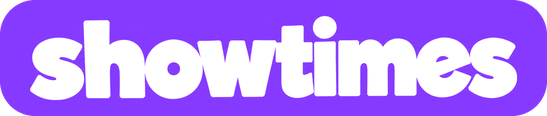
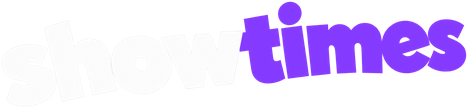
New page header art, at one letter size across the site
Jordan's new two-tone headers: what's on (Films), showtimes, picture houses
(Theatres), dashboard (Your cineclock) and festivals+series. Each is cut
from its transparent PNG, its purple set to the wordmark's #8639FF, and
scaled by letter count so the letters are the same size on every page. They
ship at 2x and show at half width, 80% of that on phones, capped to the
screen. Alt text matches the words shown.

Claude-Session: https://claude.ai/code/session_013YuyzHba7WUNZFmHygSECG

diff --git a/src/cineclock/static/site.css b/src/cineclock/static/site.css
@@ -2353,7 +2353,6 @@ a.venue-name:hover { text-decoration: underline; text-underline-offset: 3px; }
 .series-eyebrow .icon { color: var(--white); }
 .series-pill { display: inline-block; margin: 0 0 0.75rem; line-height: 0; }
 .series-eyebrow { text-decoration: none; }
-.series-pill img { width: auto; height: 2rem; }
 .has-backdrop .series-page { position: relative; margin-top: -5rem; }
 .series-blurb { max-width: 42rem; margin: 0.75rem 0 0; color: var(--bright); font-family: var(--serif); font-size: 1.0625rem; line-height: 1.55; }
 .series-source { margin: 0.75rem 0 1.25rem; font-size: 0.875rem; }
@@ -2394,8 +2393,13 @@ a.venue-name:hover { text-decoration: underline; text-underline-offset: 3px; }
 
 /* Page headers drawn as purple pills: one height everywhere. */
 .page-title-art { line-height: 0; }
-.page-title-art img { width: auto; height: 2.25rem; }
-@media (min-width: 40rem) { .page-title-art img { height: 2.75rem; } }
+.page-title-art img,
+.series-pill img { width: calc(var(--w) * 0.8); max-width: 100%; height: auto; }
+.series-pill img { width: calc(var(--w) * 0.55); }
+@media (min-width: 40rem) {
+  .page-title-art img { width: var(--w); }
+  .series-pill img { width: calc(var(--w) * 0.65); }
+}
 
 /* Home hub: three tiles under the hero. A column on phones, a row on wider screens. */
 .hub { display: grid; gap: 0.5rem; margin-top: 0.75rem; }

diff --git a/src/cineclock/templates/_parts.html b/src/cineclock/templates/_parts.html
@@ -317,6 +317,8 @@
 {% macro page_header(name, alt, root) -%}
 {%- set size = image_size("brand/header-" ~ name ~ ".png") if has_asset("brand/header-" ~ name ~ ".png") else None -%}
 {%- if size -%}
-<img src="{{ root }}static/brand/header-{{ name }}.png?v={{ asset_version('brand/header-' ~ name ~ '.png') }}" alt="{{ alt }}" width="{{ size[0] | int }}" height="{{ size[1] | int }}">
+{# Drawn at 2x, with the letters the same size in every one, so each shows at
+   half its pixel width; --w lets phones scale them all down together. #}
+<img src="{{ root }}static/brand/header-{{ name }}.png?v={{ asset_version('brand/header-' ~ name ~ '.png') }}" alt="{{ alt }}" width="{{ (size[0] / 2) | int }}" height="{{ (size[1] / 2) | int }}" style="--w: {{ (size[0] / 2) | int }}px">
 {%- else %}{{ alt }}{% endif -%}
 {%- endmacro %}

diff --git a/src/cineclock/templates/me.html b/src/cineclock/templates/me.html
@@ -7,7 +7,7 @@
 {% block main %}
 <div class="wrap me-page">
   <div class="dash-head">
-    <h1 class="page-title page-title-art">{{ page_header("dash", "Your cineclock", root) }}</h1>
+    <h1 class="page-title page-title-art">{{ page_header("dash", "Dashboard", root) }}</h1>
     <div class="dash-who" id="me-signed-in" hidden>
       <span class="account-initial" id="me-initial" aria-hidden="true"></span>
       <span class="dash-email" id="me-email"></span>

diff --git a/src/cineclock/templates/theatres.html b/src/cineclock/templates/theatres.html
@@ -5,7 +5,7 @@
 
 {% block main %}
 <div class="wrap">
-  <h1 class="page-title page-title-art">{{ page_header("theatres", "Theatres", root) }}</h1>
+  <h1 class="page-title page-title-art">{{ page_header("theatres", "Picture houses", root) }}</h1>
   <ul class="theatre-cards">
     {% for v in venues %}
     {% set photo = "theatres/" ~ v.slug ~ ".jpg" %}

diff --git a/src/cineclock/templates/festivals.html b/src/cineclock/templates/festivals.html
@@ -6,7 +6,7 @@
 
 {% block main %}
 <div class="wrap">
-  <h1 class="page-title page-title-art">{{ page_header("festivals", "Festivals", root) }}</h1>
+  <h1 class="page-title page-title-art">{{ page_header("festivals", "Festivals and series", root) }}</h1>
   {% if series_list %}
   <ul class="fest-cards">
     {% for s in series_list %}

diff --git a/src/cineclock/templates/films.html b/src/cineclock/templates/films.html
@@ -5,7 +5,7 @@
 
 {% block main %}
 <div class="wrap">
-  <h1 class="page-title page-title-art">{{ page_header("films", "Films", root) }}</h1>
+  <h1 class="page-title page-title-art">{{ page_header("films", "What's on", root) }}</h1>
   {{ filter_bar(venues, filter_tags, genres, root, sorting=True) }}
 
   {% if films %}
